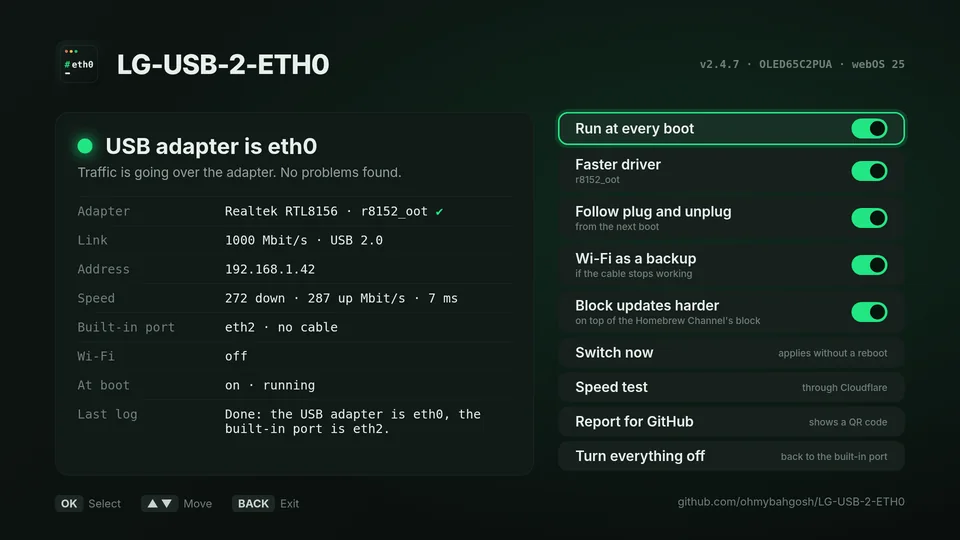
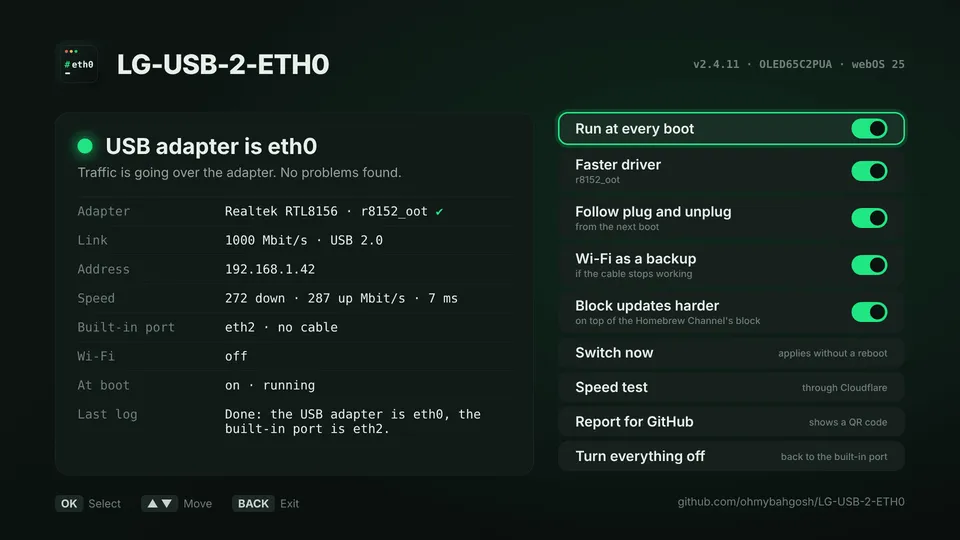
Homebrew Channel page for ETH0: 2.4.11 screenshots and the driver test

diff --git a/homebrew/lg-usb-2-eth0.html b/homebrew/lg-usb-2-eth0.html
@@ -2,6 +2,7 @@
 <figure class="webosbrew-screenshot" style="flex:none;margin:0"><img src="https://ohmybahgosh.dev/homebrew/img/lg-usb-2-eth0-app-home.webp" alt="The app's status screen: the USB adapter is eth0 at 1000 Mbit/s, with switches for Run at every boot, Faster driver, Follow plug and unplug, and Wi-Fi as a backup" title="Status at a glance" width="960" height="540" style="height:240px;width:427px" loading="lazy"></figure>
 <figure class="webosbrew-screenshot" style="flex:none;margin:0"><img src="https://ohmybahgosh.dev/homebrew/img/lg-usb-2-eth0-app-speed.webp" alt="Speed test: 272 Mbit/s down, 287 Mbit/s up, 7 ms" title="Speed test" width="960" height="540" style="height:240px;width:427px" loading="lazy"></figure>
 <figure class="webosbrew-screenshot" style="flex:none;margin:0"><img src="https://ohmybahgosh.dev/homebrew/img/lg-usb-2-eth0-app-report.webp" alt="Report for GitHub: a QR code that opens a filled-in compatibility report" title="Report from the couch" width="960" height="540" style="height:240px;width:427px" loading="lazy"></figure>
+<figure class="webosbrew-screenshot" style="flex:none;margin:0"><img src="https://ohmybahgosh.dev/homebrew/img/lg-usb-2-eth0-app-drvtest-offer.webp" alt="A new driver to test: the app offers a driver built for this TV's kernel from LG's own source, loaded only until the next restart" title="Test a new driver" width="960" height="540" style="height:240px;width:427px" loading="lazy"></figure>
 <figure class="webosbrew-screenshot" style="flex:none;margin:0"><img src="https://ohmybahgosh.dev/homebrew/img/lg-usb-2-eth0-speeds.webp" alt="Real speeds: about 95 Mbit/s on the built-in port, up to 330 Mbit/s with a Realtek or ASIX USB adapter" title="Real speeds on real TVs" width="1280" height="610" style="height:240px;width:504px" loading="lazy"></figure>
 </div>
 <p><strong>Needs a rooted TV.  Set up Wi-Fi before you switch: switching takes the wired ports down for a moment, and Wi-Fi is your way back in.</strong></p>
@@ -22,6 +23,7 @@
 <li><strong>Wi-Fi as a backup</strong>: if the cable stops working for a minute while Wi-Fi is off, the TV turns Wi-Fi on and joins a network it already knows.  Once the cable works again, Wi-Fi goes back off, so traffic returns to the adapter.  Off until you turn it on.</li>
 <li><strong>Faster driver</strong>: offered only when a Realtek or ASIX driver is known to work on your TV's exact kernel and an adapter it supports is plugged in.  Some TVs have no driver for the chip at all, like 2024 QNED and OLED models for Realtek, or a 2020 UN7300 and a 2025 B5 for ASIX.  It downloads, checks and sets up the driver in one go.</li>
 <li><strong>Block updates harder</strong>: on top of the Homebrew Channel's Block system updates, never instead of it.  It turns off webOS's own update check, blocks the update servers that block misses, drops traffic to LG's update IP with one firewall rule, and clears cached update details.  At every boot, and turning it off undoes only its own changes.</li>
+<li><strong>Test a new driver</strong>: on TVs whose kernel has a driver built for it from LG's own source that nobody has tried yet.  One press downloads and checks it, loads it until the next restart only, checks it gets online, and shows a QR code that opens a filled-in test report.  That's how a new driver gets offered to everyone with that TV.</li>
 <li><strong>Speed test</strong>: download, upload and latency through the TV's current connection, against Cloudflare's nearest server.</li>
 <li><strong>Report from the couch</strong>: a QR code opens a compatibility report on your phone with your TV, its chip and built-in USB network drivers, your adapter, speed and the full report already filled in, MAC addresses hidden.</li>
 <li><strong>Updates through the Homebrew Channel</strong>, like any other app from this repository.  After an update, the app opens with a short list of what's new.</li>
